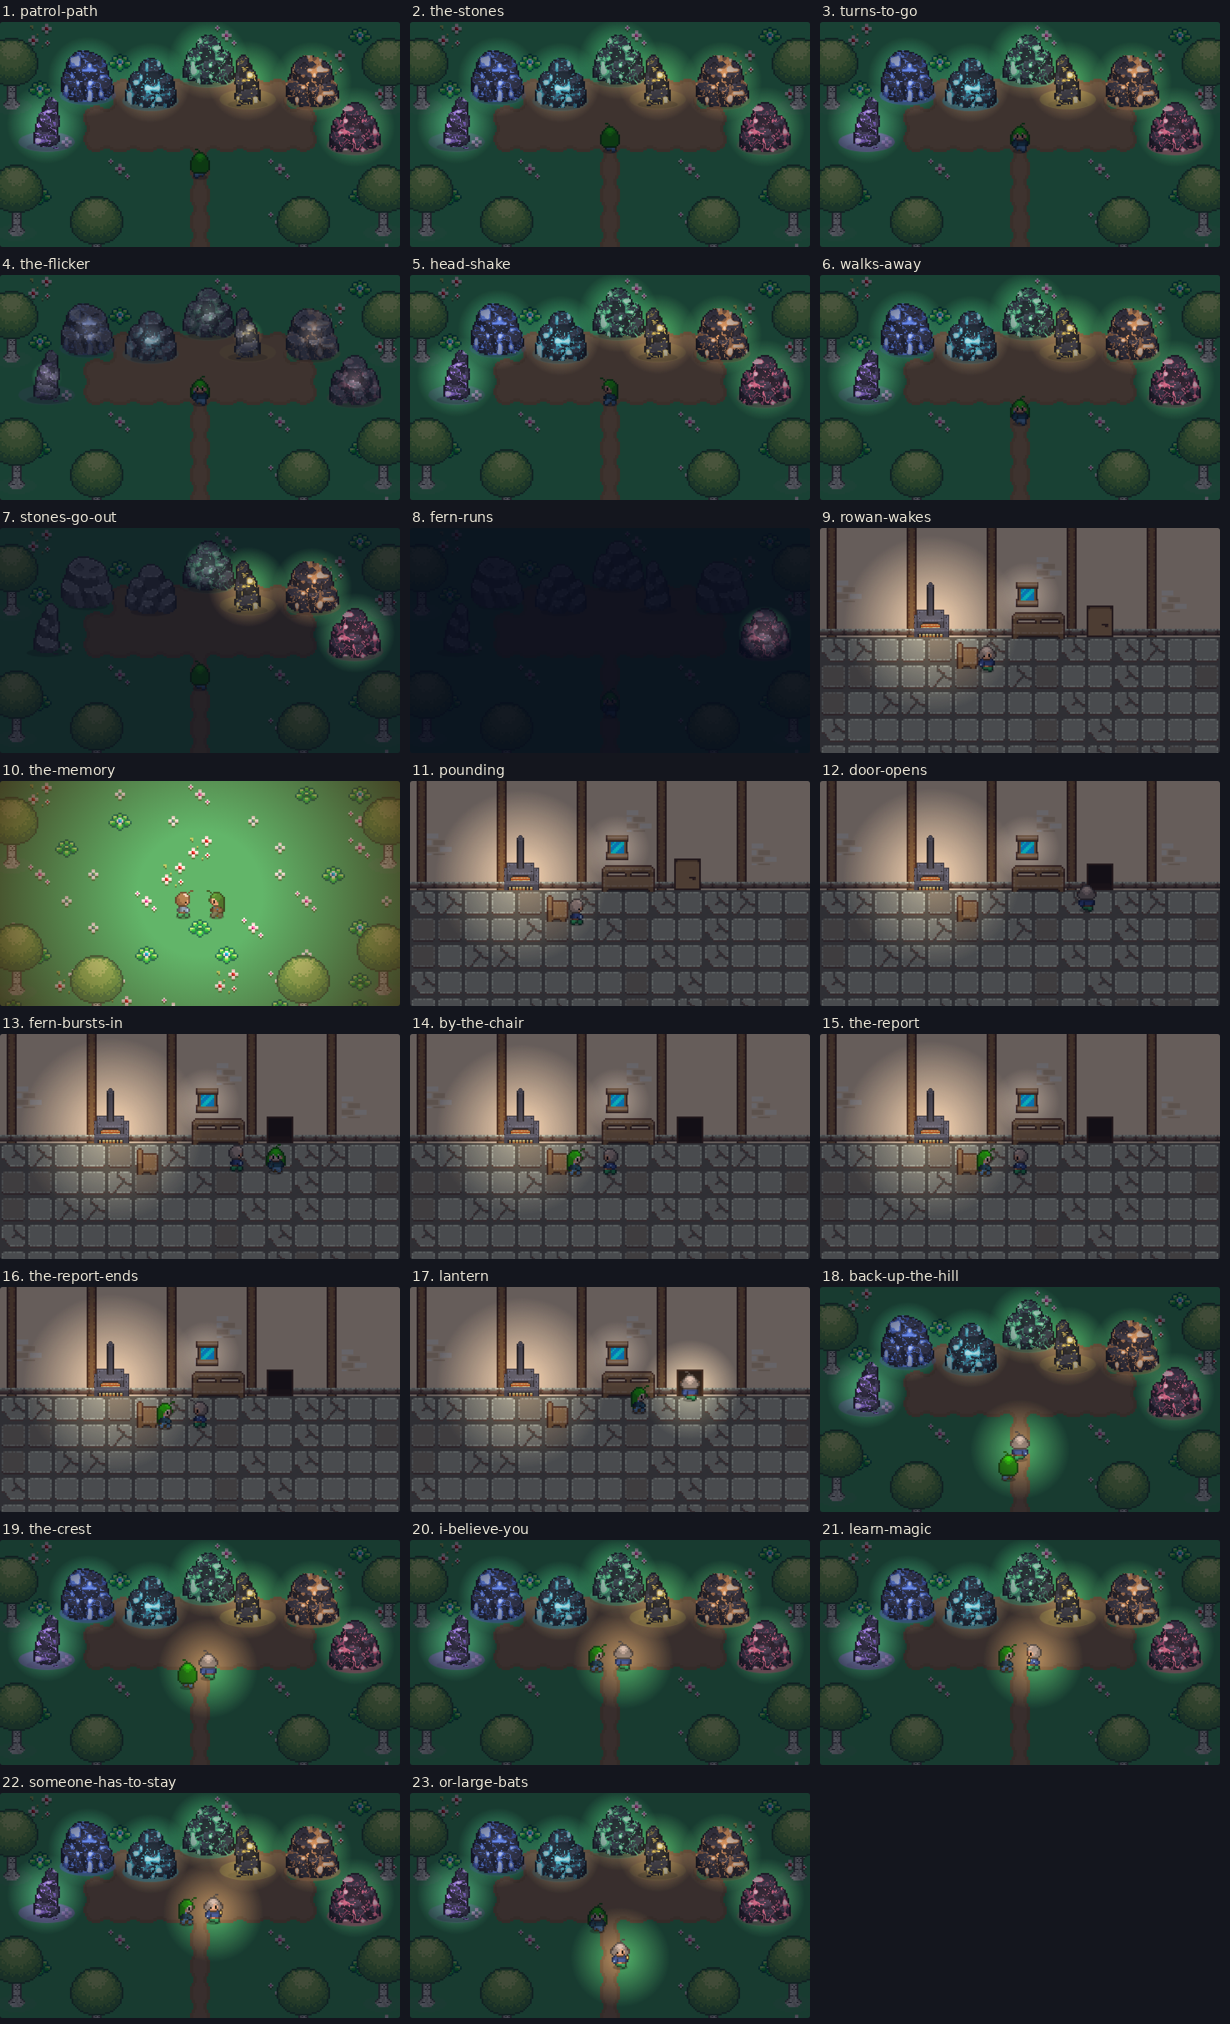
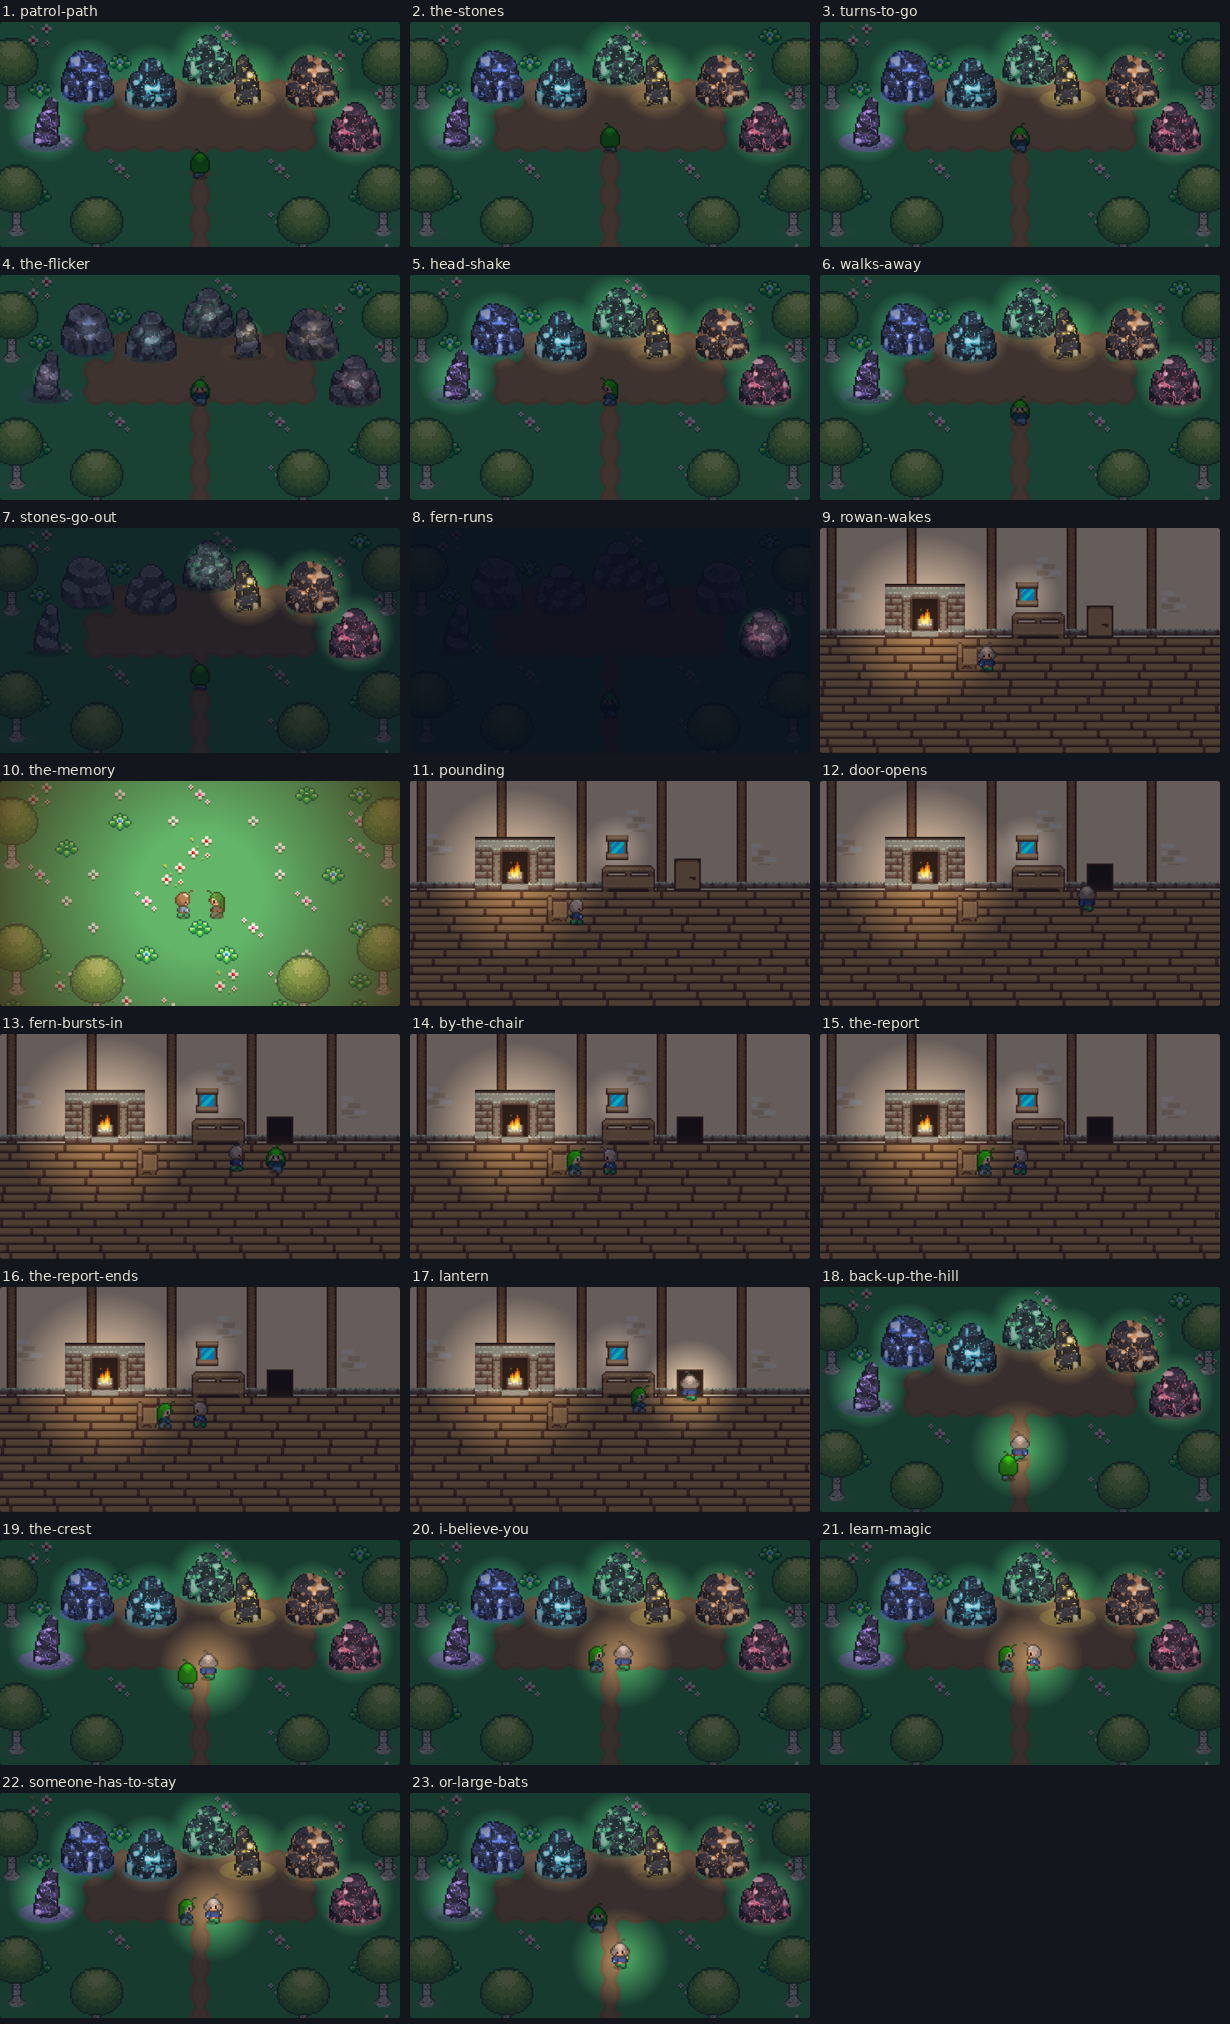
Cottage: wooden floorboards instead of flagstones
Lay the pack's bridge planks as floorboards with staggered joints, as
the author asked, and log the cottage's look.

Claude-Session: https://claude.ai/code/session_01VJw4AQ3NNKTqwCh5BzdA5h

diff --git a/src/ui/cinematicView.ts b/src/ui/cinematicView.ts
@@ -69,20 +69,14 @@ const MEADOW_GROUND = groundMap('cinematic-meadow', [
 
 const BIRCH: Region = { image: 'story.birch', x: 0, y: 0, w: 64, h: 92 };
 // The cottage, from the pack's village tiles.
-/** Plain and cracked flagstones, mixed so the floor does not repeat. */
-const FLAGSTONES: readonly Region[] = [0, 0, 32, 0, 64, 0].map((x, i) => ({
-  image: 'village',
-  x,
-  y: i === 5 ? 64 : 32,
-  w: 32,
-  h: 32,
-}));
+/** One floorboard from the pack's bridge planks: a seam above an 8-pixel board, with dark ends. */
+const FLOORBOARD: Region = { image: 'grasslands', x: 260, y: 428, w: 56, h: 10 };
 const POST: Region = { image: 'village', x: 8, y: 690, w: 12, h: 32 };
 const SKIRTING: Region = { image: 'village', x: 24, y: 758, w: 64, h: 10 };
 const BRICKS: Region = { image: 'village', x: 24, y: 712, w: 40, h: 36 };
 const WINDOW: Region = { image: 'village', x: 785, y: 146, w: 28, h: 32 };
 const PLASTER = '#ffe1bf';
-const MORTAR = '#6f6a5c';
+const FLOOR_SEAM = '#5a3a24';
 const DOOR_SHUT: Region = { image: 'village', x: 0, y: 280, w: 32, h: 38 };
 const DOOR_OPEN: Region = { image: 'village', x: 0, y: 466, w: 32, h: 38 };
 const CHAIR: Region = { image: 'village', x: 0, y: 128, w: 32, h: 40 };
@@ -221,14 +215,14 @@ export class CinematicView {
       for (let y = VIEW.top; y < WALL_FOOT; y += POST.h) this.atlas.draw(ctx, POST, x, y);
     for (let x = VIEW.left; x < VIEW.right; x += SKIRTING.w)
       this.atlas.draw(ctx, SKIRTING, x, WALL_FOOT - SKIRTING.h);
-    // Flagstones, set in mortar, from the wall to the front of the room.
-    ctx.fillStyle = MORTAR;
+    // Floorboards across the room, their joints staggered from row to row.
+    ctx.fillStyle = FLOOR_SEAM;
     ctx.fillRect(VIEW.left, WALL_FOOT, VIEW.right - VIEW.left, VIEW.bottom - WALL_FOOT);
-    for (let y = WALL_FOOT; y < VIEW.bottom; y += TILE)
-      for (let x = VIEW.left; x < VIEW.right; x += TILE) {
-        const stone = FLAGSTONES[Math.floor(cellHash(x / TILE, y / TILE) * FLAGSTONES.length)];
-        if (stone) this.atlas.draw(ctx, stone, x, y);
-      }
+    for (let y = WALL_FOOT, row = 0; y < VIEW.bottom; y += FLOORBOARD.h, row++) {
+      const stagger = Math.floor(cellHash(row, 7) * FLOORBOARD.w);
+      for (let x = VIEW.left - stagger; x < VIEW.right; x += FLOORBOARD.w)
+        this.atlas.draw(ctx, FLOORBOARD, x, y);
+    }
     // The window, the bench, the fireplace, the chair and the door.
     this.atlas.draw(ctx, WINDOW, WINDOW_X - WINDOW.w / 2, 20);
     lights.push({ x: WINDOW_X, y: 36, radius: 40, colour: MOONLIGHT, strength: 0.5 });

diff --git a/docs/story-plans/AUTHOR_DECISIONS.md b/docs/story-plans/AUTHOR_DECISIONS.md
@@ -87,3 +87,4 @@ These replace earlier canon wherever they conflict, including World Bible WB-C16
 | Everywhere     | The overworld's stones use the same art as the story scenes.                                                                                                                                                                                  |
 | Hilltop layout | Open. Tried so far: an even arc and a scattered arc (currently shown), both open toward the path with violet at the left end and red at the right. The scene stage is wider (480 x 270) to give the stones room.                              |
 | Birches        | The pack's own round tree recoloured as a birch, not drawn from scratch.                                                                                                                                                                      |
+| Cottage        | Rowan's cottage: timber-framed plaster walls, a wooden plank floor, and a stone fireplace with the fire in it. Built from the pack's tiles.                                                                                                   |
